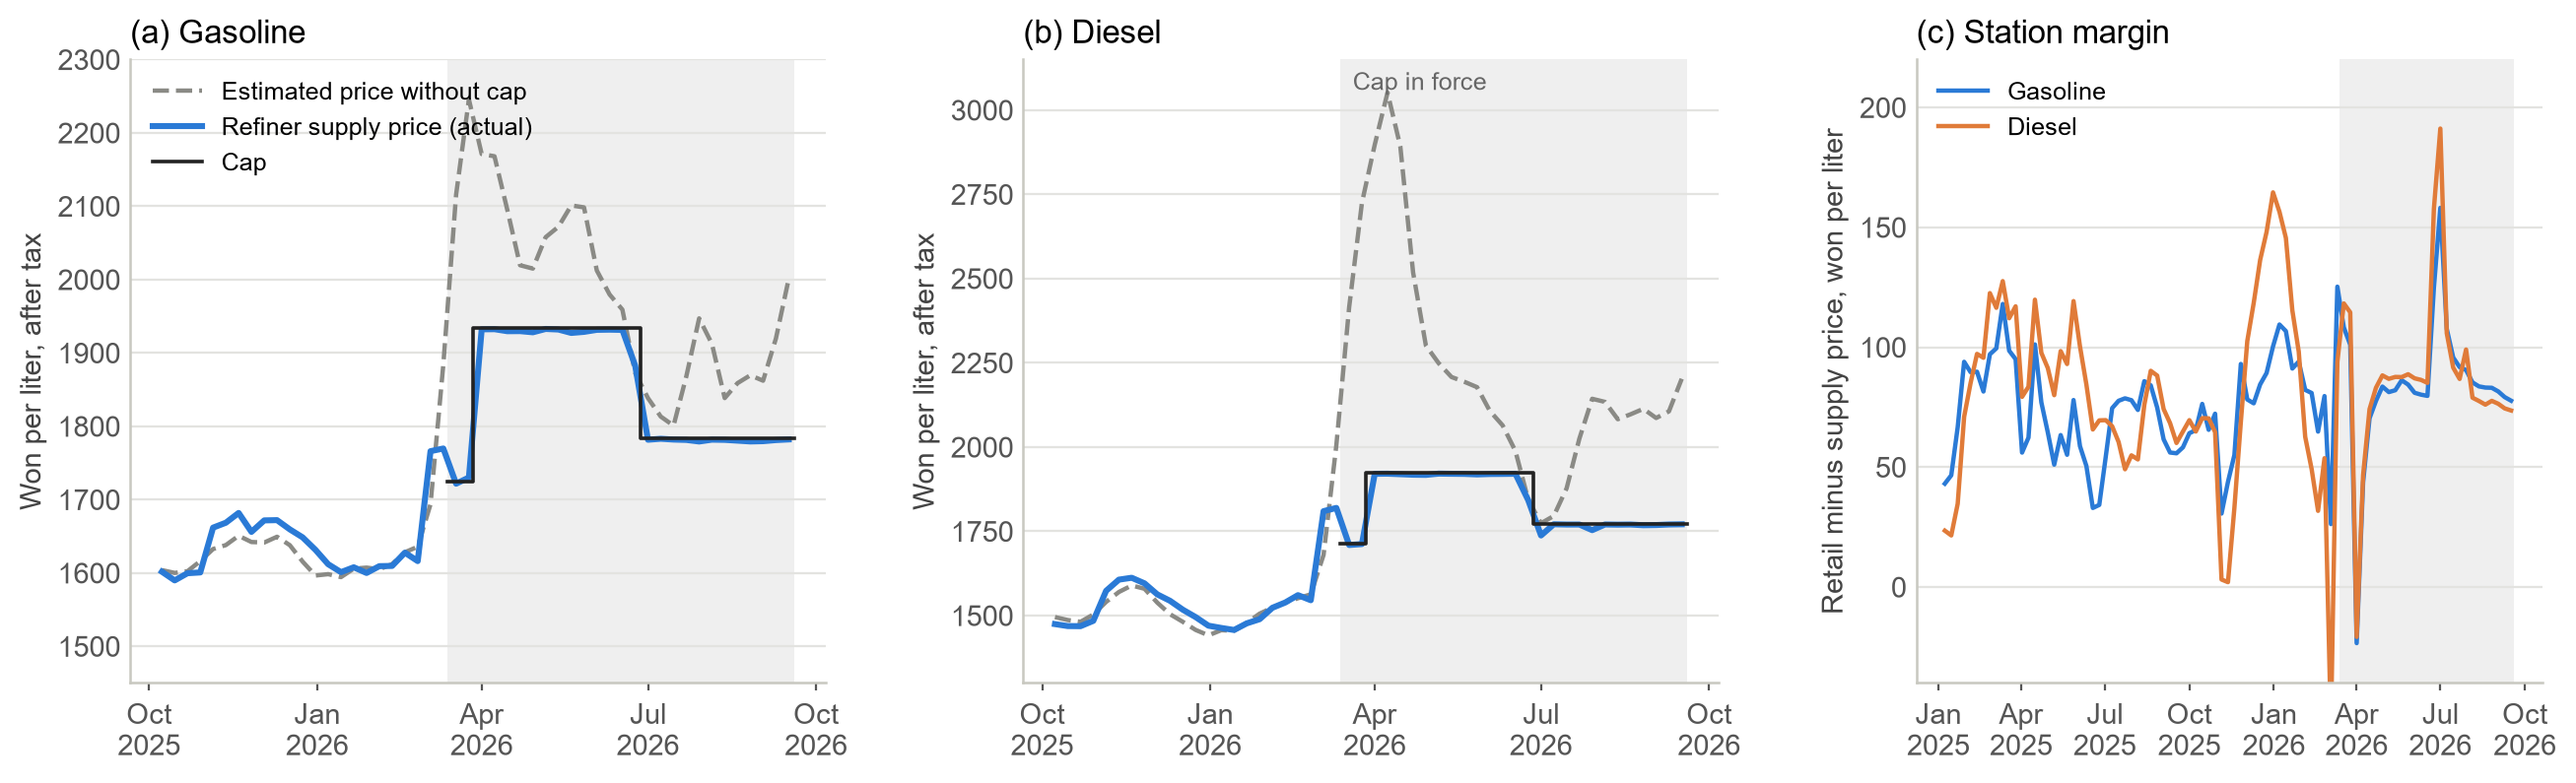
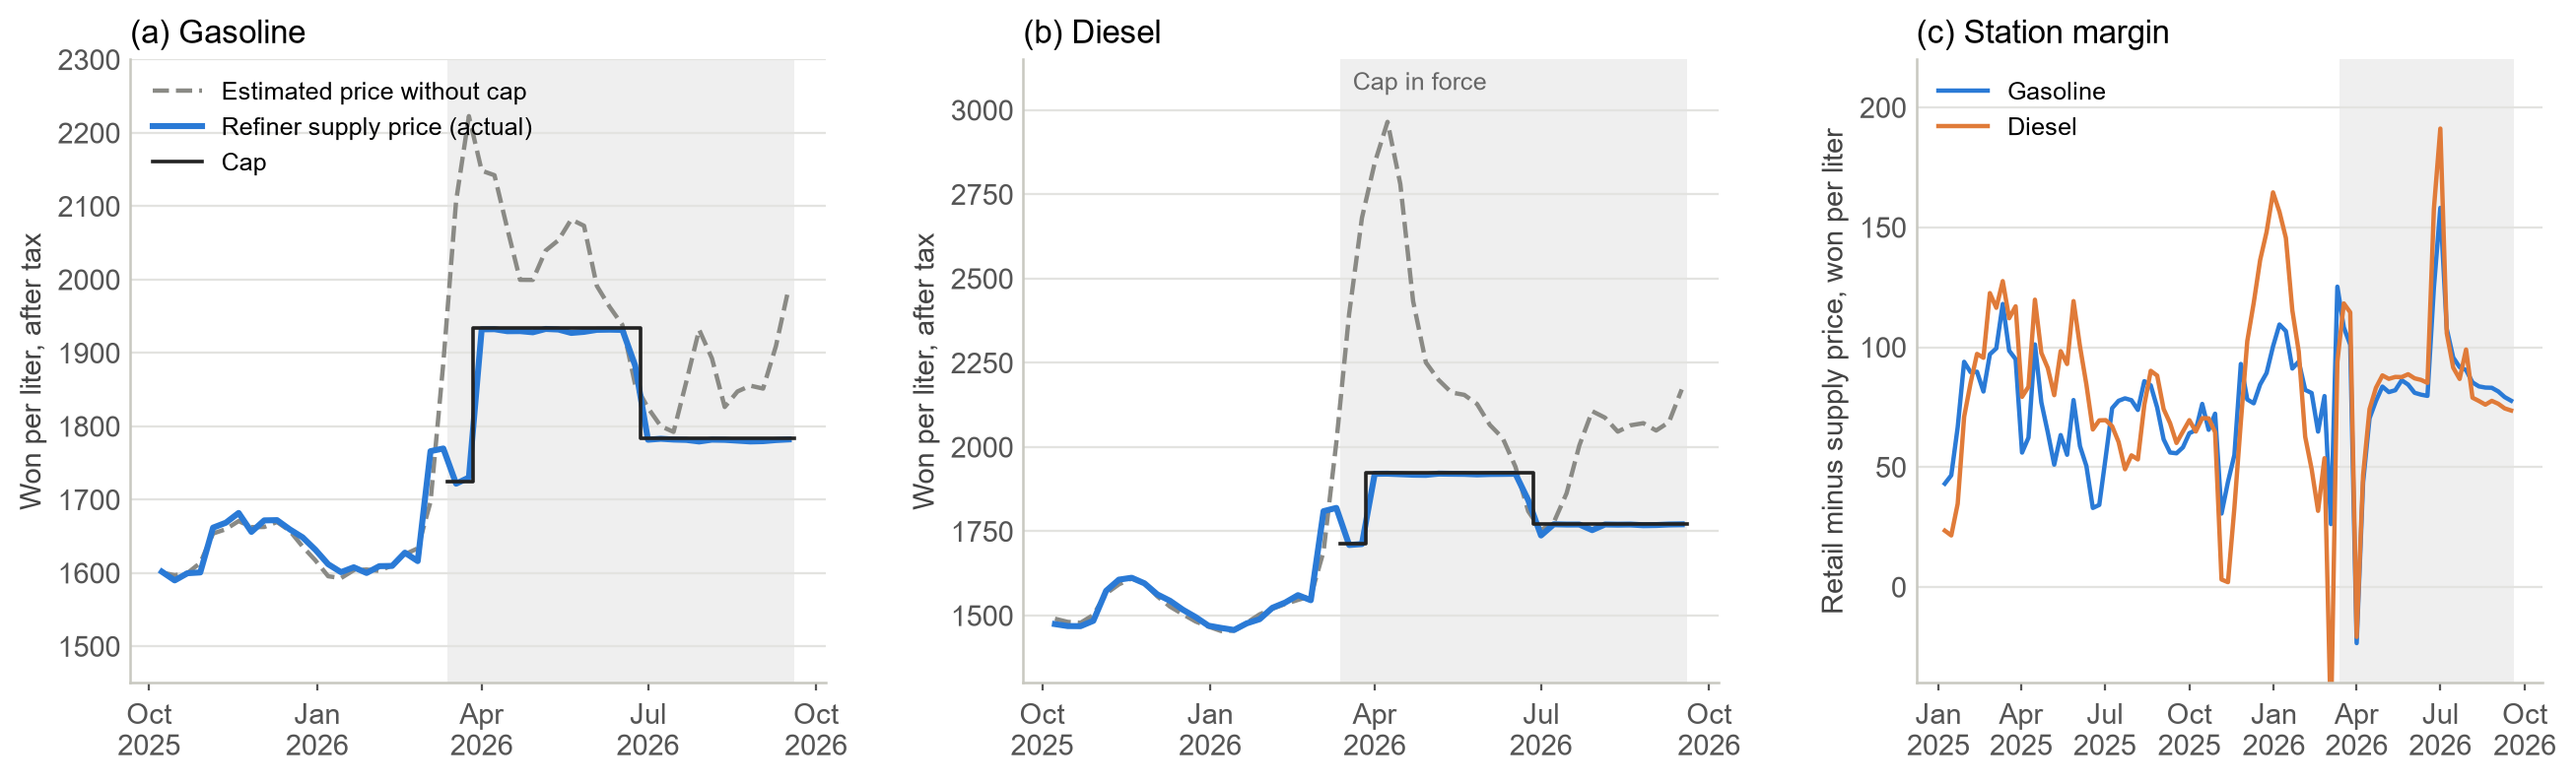
Correct the fuel-tax date behind the cap-binding estimate in the fuel price cap note
Opinet's pre-tax and after-tax supply prices show the narrower fuel-tax cut
(763 won gasoline, 523 won diesel) took effect in the first week of November
2025, not on 1 January 2026 as the press summary had it. Re-estimating the
pre-cap pricing rule with the corrected schedule improves its fit (adjusted
R-squared 0.92 and 0.95, residual SD 11-12 won) and leaves the conclusion
unchanged: the cap never sat above the estimated uncapped price. The gap
ranges become 4-208 won for gasoline and 4-1,042 won for diesel, Figure 5 is
regenerated, and the data note now says how the tax schedule was obtained.

diff --git a/docs/posts/2026-10-fuel-price-cap-ko/index.html b/docs/posts/2026-10-fuel-price-cap-ko/index.html
@@ -446,7 +446,7 @@ ul.task-list li input[type="checkbox"] {
 </tr>
 <tr class="odd">
 <td style="text-align: left;">상한과 국제 시세 기준 공급가격의 차이, 휘발유 / 경유</td>
-<td style="text-align: right;">주별 17~236원 / 23~1,131원 낮음</td>
+<td style="text-align: right;">주별 4~208원 / 4~1,042원 낮음</td>
 </tr>
 <tr class="even">
 <td style="text-align: left;">주유소 마진(휘발유), 2025년 / 상한 기간</td>
@@ -586,8 +586,8 @@ ul.task-list li input[type="checkbox"] {
 <section id="상한은-내내-가격을-눌렀다" class="level2">
 <h2 class="anchored" data-anchor-id="상한은-내내-가격을-눌렀다">상한은 내내 가격을 눌렀다</h2>
 <p>상한 기간 내내 정유 4사의 공급가격은 상한보다 2~6원 낮은 수준에 붙어 있었다. 이것만 보면 두 가지로 읽을 수 있다. 원가가 상한보다 높아 모두가 상한까지 받았을 수도 있고, 원가가 상한 아래로 내려갔는데도 상한이 일종의 기준점이 돼 가격이 안 내려갔을 수도 있다. 뒤의 경우라면 상한이 사실상 담합의 길잡이 노릇을 한 셈이다. 실제로 가격 상한이 그런 역할을 한 사례가 미국 신용카드 금리(Knittel and Stango, 2003)와 중국 주유소(Zhang et al., 2020)에서 보고된 바 있다.</p>
-<p>어느 쪽인지 가리기 위해 상한 도입 전 60주(2025년 1월~2026년 2월)의 자료로 정유사 공급가격이 싱가포르 시세와 환율을 어떻게 따라갔는지 식을 세웠다. 이 식은 공급가격을 꽤 잘 설명했다(휘발유 설명력 84%, 경유 89%, 평균 오차 리터당 16~18원). 이 식을 상한 기간에 적용하면 “상한이 없었다면 받았을 공급가격”을 추정할 수 있다.</p>
-<p>결과는 분명했다. 상한은 시행 내내 이 추정치보다 낮았다. 상한이 바뀐 주를 뺀 22주 가운데 상한이 추정치보다 오차 범위 이상 높았던 주는 휘발유, 경유 모두 한 주도 없었다. 식을 바꿔 다시 계산해도 같았다. 상한은 추정치보다 휘발유는 주별로 17~236원, 경유는 23~1,131원(4월 초) 낮았다.</p>
+<p>어느 쪽인지 가리기 위해 상한 도입 전 60주(2025년 1월~2026년 2월)의 자료로 정유사 공급가격이 싱가포르 시세와 환율을 어떻게 따라갔는지 식을 세웠다. 이 식은 공급가격을 꽤 잘 설명했다(휘발유 설명력 92%, 경유 95%, 평균 오차 리터당 11~12원). 이 식을 상한 기간에 적용하면 “상한이 없었다면 받았을 공급가격”을 추정할 수 있다.</p>
+<p>결과는 분명했다. 상한이 바뀐 주를 뺀 22주 가운데 상한이 추정치보다 높았던 주는 휘발유, 경유 모두 한 주도 없었다. 식을 바꿔 다시 계산해도 같았다. 상한은 추정치보다 휘발유는 주별로 4~208원, 경유는 4~1,042원(4월 초) 낮았다. 차이가 가장 작았던 두세 주는 오차 범위 안이었지만, 나머지 주는 오차 범위를 크게 넘었다.</p>
 <p>원유 가격만 보면 7~8월에는 상한이 원가보다 높았던 것처럼 보인다. 하지만 올해는 원유보다 휘발유·경유 제품 시세가 훨씬 더 많이 올랐다. 제품 시세로 따지면 상한이 원가보다 높았던 적은 없다. 그러니 정유 4사 가격이 상한에 나란히 붙어 있었던 것은 상한이 실제로 가격을 눌렀기 때문으로 보는 게 자료와 맞다. 바꿔 말하면, 상한 기간에 가격이 나란했다는 사실만으로는 담합 여부를 판단할 수 없다.</p>
 <p>그렇다면 상한이 깎아 준 몫은 누가 떠안았을까. 주유소는 아니었다. 주유소 마진(판매가격에서 공급가격을 뺀 값)은 상한 전후로 거의 그대로였다. 소비자가 덜 낸 돈은 정유사의 공급가격과 정부의 유류세 인하에서 나왔다.</p>
 <table class="caption-top table">
@@ -644,7 +644,7 @@ ul.task-list li input[type="checkbox"] {
 <p>앞으로 할 일도 세 가지다. 상한이 다시 바뀌면 인상·인하의 속도 차이를 미리 정한 방법으로 다시 확인하겠다. 오피넷의 세전 공급가격으로 유류세 일정을 맞춰 보고 추정을 확정하겠다. 판매량과 수출 자료를 구하면 상한의 이익과 부담이 각각 얼마였는지, 공급 쪽은 어떻게 반응했는지 따져 보겠다.</p>
 <section id="데이터와-코드" class="level3">
 <h3 class="anchored" data-anchor-id="데이터와-코드">데이터와 코드</h3>
-<p>분석에 쓴 자료는 모두 공개 자료다. 주유소 판매가격, 정유사 공급가격, 국제 석유제품 시세는 <a href="https://www.opinet.co.kr">오피넷</a>에서, 환율은 <a href="https://ecos.bok.or.kr">한국은행 ECOS</a>에서 받았다. 상한 변경 일정과 유류세 인하율은 정부 발표와 언론 보도로 정리했다. 미리 등록한 분석계획서, 계획에서 바꾼 점의 기록, 추정 코드는 요청하면 보내 드린다. 문의는 <a href="mailto:hyunhak.kim@kookmin.ac.kr">hyunhak.kim@kookmin.ac.kr</a>로 부탁드린다.</p>
+<p>분석에 쓴 자료는 모두 공개 자료다. 주유소 판매가격, 정유사 공급가격, 국제 석유제품 시세는 <a href="https://www.opinet.co.kr">오피넷</a>에서, 환율은 <a href="https://ecos.bok.or.kr">한국은행 ECOS</a>에서 받았다. 상한 변경 일정은 정부 발표와 언론 보도로 정리했고, 유류세는 오피넷의 세전·세후 공급가격 차이로 확인했다. 미리 등록한 분석계획서, 계획에서 바꾼 점의 기록, 추정 코드는 요청하면 보내 드린다. 문의는 <a href="mailto:hyunhak.kim@kookmin.ac.kr">hyunhak.kim@kookmin.ac.kr</a>로 부탁드린다.</p>
 </section>
 <section id="참고문헌" class="level3">
 <h3 class="anchored" data-anchor-id="참고문헌">참고문헌</h3>

diff --git a/docs/posts/2026-10-fuel-price-cap-en/index.html b/docs/posts/2026-10-fuel-price-cap-en/index.html
@@ -473,7 +473,7 @@ window.Quarto = {
 </tr>
 <tr class="even">
 <td style="text-align: left;">Cap minus estimated uncapped supply price, gasoline / diesel</td>
-<td style="text-align: right;">−17 to −236 / −23 to −1,131 won by week</td>
+<td style="text-align: right;">−4 to −208 / −4 to −1,042 won by week</td>
 </tr>
 <tr class="odd">
 <td style="text-align: left;">Station margin on gasoline, 2025 / cap period</td>
@@ -617,7 +617,7 @@ window.Quarto = {
 <section id="the-cap-bound-throughout-and-refiners-and-the-tax-cut-absorbed-the-gap" class="level2">
 <h2 class="anchored" data-anchor-id="the-cap-bound-throughout-and-refiners-and-the-tax-cut-absorbed-the-gap">7. The cap bound throughout, and refiners and the tax cut absorbed the gap</h2>
 <p>Throughout the cap period the refiners’ supply prices sat 2–6 won below the cap. On its own that has two readings. The cap may have been below cost, so everyone charged up to it. Or costs may have fallen below the cap while the cap served as a reference point that kept prices up — the idea that a price ceiling can become a focal point for tacit collusion (Knittel and Stango, 2003; Zhang et al., 2020).</p>
-<p>To tell them apart I estimated a pre-cap pricing rule: pre-tax supply prices on the won value of Singapore product prices and two weekly lags, January 2025 to February 2026 (60 weeks; adjusted <span class="math inline">\(R^2\)</span> 0.844 for gasoline and 0.894 for diesel; residual standard deviation 15.8 and 18.0 won after tax). Applied to the cap period with the reported tax schedule, the rule gives the price refiners would have charged without the cap. In none of the 22 cap-period weeks, excluding transition weeks, did the cap exceed this estimate by more than two residual standard deviations, for either fuel; the same holds with a shorter estimation window, a fixed-markup rule and a four-week lag rule. The cap was 17–236 won below the estimate for gasoline and 23–1,131 won below it for diesel, the largest gap in early April.</p>
+<p>To tell them apart I estimated a pre-cap pricing rule: pre-tax supply prices on the won value of Singapore product prices and two weekly lags, January 2025 to February 2026 (60 weeks; adjusted <span class="math inline">\(R^2\)</span> 0.919 for gasoline and 0.946 for diesel; residual standard deviation 10.6 and 11.9 won after tax). Applied to the cap period with the fuel-tax schedule implied by Opinet’s pre-tax and after-tax supply prices, the rule gives the price refiners would have charged without the cap. In none of the 22 cap-period weeks, excluding transition weeks, did the cap exceed this estimate, for either fuel; the same holds with a shorter estimation window, a fixed-markup rule and a four-week lag rule. The cap was 4–208 won below the estimate for gasoline and 4–1,042 won below it for diesel, the largest gap in early April; the two or three closest weeks were within the rule’s error, the rest far outside it.</p>
 <p>Crude oil prices alone suggest the cap was above cost in July and August. But in 2026 gasoline and diesel prices rose far more than crude, and on a product basis the cap never was. All four refiners sitting at the cap is therefore best read as the cap actually binding. It also means that parallel pricing during the cap carries no information about collusion.</p>
 <p>Station margins, retail minus supply price, barely changed. What drivers saved came from refiners’ supply prices and from the public budget through the tax cut.</p>
 <table class="caption-top table">
@@ -670,7 +670,7 @@ window.Quarto = {
 <p>A wholesale cap reaches pump prices quickly but not at once: more than half in the first week and most within three. Judging a cap change by pump prices a few days later understates its effect. Speed depends on local competition, so drivers in areas with few stations see a cut later; monitoring right after a cut is best aimed there. When a cap sits far below cost, the supply side absorbs the gap — here refiners and the public budget — and the longer that lasts, the more sales and export data should be watched alongside prices. And while a cap binds, firms charge the same price near it whether or not they compete, so parallel pricing during the cap is weak evidence for a competition authority.</p>
 <section id="data-and-code" class="level3">
 <h3 class="anchored" data-anchor-id="data-and-code">Data and code</h3>
-<p>All data are public. Station prices, refiner supply prices and international product prices come from <a href="https://www.opinet.co.kr">Opinet</a>; exchange rates from the <a href="https://ecos.bok.or.kr">Bank of Korea ECOS</a>. Cap decisions and fuel-tax rates are compiled from government announcements and press reports. The pre-registered analysis plans, the deviation log and the estimation code are available on request at <a href="mailto:hyunhak.kim@kookmin.ac.kr">hyunhak.kim@kookmin.ac.kr</a>.</p>
+<p>All data are public. Station prices, refiner supply prices and international product prices come from <a href="https://www.opinet.co.kr">Opinet</a>; exchange rates from the <a href="https://ecos.bok.or.kr">Bank of Korea ECOS</a>. Cap decisions are compiled from government announcements and press reports; fuel-tax rates are read off the gap between Opinet’s after-tax and pre-tax supply prices. The pre-registered analysis plans, the deviation log and the estimation code are available on request at <a href="mailto:hyunhak.kim@kookmin.ac.kr">hyunhak.kim@kookmin.ac.kr</a>.</p>
 </section>
 <section id="references" class="level3">
 <h3 class="anchored" data-anchor-id="references">References</h3>
